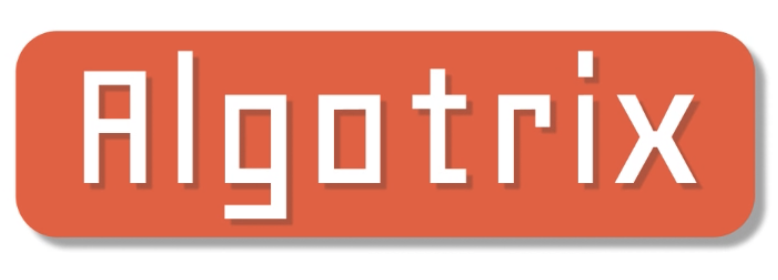
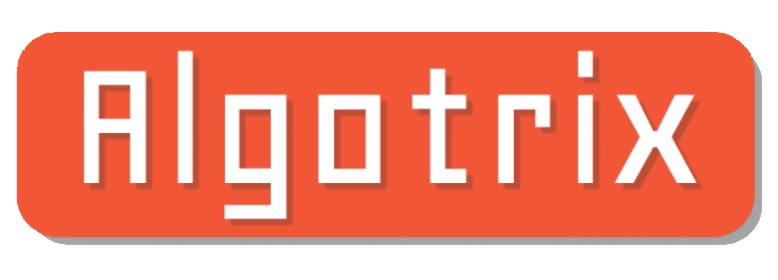
Finish issue-39
+ transparent landing logo

diff --git a/app/imports/ui/pages/Landing.jsx b/app/imports/ui/pages/Landing.jsx
@@ -1,14 +1,146 @@
 import React from 'react';
-import { Header, Grid, Icon, Button, Image } from 'semantic-ui-react';
-import { NavLink } from 'react-router-dom';
-import LandingNavBar from '../components/nvabars/LandingNavBar';
+import { Header, Grid, Icon, Button, Image, Menu, Sticky, Form, Message, Modal } from 'semantic-ui-react';
+import { Meteor } from 'meteor/meteor';
+import { NavLink, Redirect } from 'react-router-dom';
+import { AutoForm, ErrorsField, SubmitField, TextField } from 'uniforms-semantic';
+import { Accounts } from 'meteor/accounts-base';
+import { SimpleSchema2Bridge } from 'uniforms-bridge-simple-schema-2';
+import SimpleSchema from 'simpl-schema';
+import { UserInfos } from '../../api/userinfo/UserInfo';
+
+const signinBridge = new SimpleSchema2Bridge(new SimpleSchema({
+  email: String,
+  password: String,
+}));
+
+const signupBridge = new SimpleSchema2Bridge(new SimpleSchema({
+  email: String,
+  password: String,
+  firstName: String,
+  lastName: String,
+  image: { type: String, optional: true, defaultValue: '' },
+}));
 
 /** A simple static component to render some text for the landing page. */
 class Landing extends React.Component {
+  constructor(props) {
+    super(props);
+    this.state = { error: '', redirectToReferer: false, open: false, dimmer: undefined, signIn: true };
+  }
+
+  signinSubmit = (data, formRef) => {
+    const { email, password } = data;
+    Meteor.loginWithPassword(email, password, (err) => {
+      if (err) {
+        this.setState({ error: err.reason });
+      } else {
+        formRef.reset();
+        this.setState({ error: '', redirectToReferer: true, open: false });
+      }
+    });
+  }
+
+  signupSubmit(data, formRef) {
+    const { email, password, firstName, lastName, image } = data;
+    Accounts.createUser({ email, username: email, password }, (err) => {
+      if (err) {
+        this.setState({ error: err.reason });
+      } else {
+        formRef.reset();
+        UserInfos.define({
+          firstName: firstName, lastName:
+          lastName, owner: email, password: password, userImage: image,
+        });
+        this.setState({ error: '', redirectToReferer: true, open: false });
+      }
+    });
+  }
+
+  signupPage() {
+    let fRef = null;
+
+    return (
+      <>
+        <AutoForm ref={ref => {
+          fRef = ref;
+        }} schema={signupBridge} onSubmit={data => this.signupSubmit(data, fRef)}>
+          <Header as="h1" textAlign="left">Register</Header>
+          <Form.Group widths='equal'>
+            <TextField name='firstName' placeholder='Your first name' grid='equal'/>
+            <TextField name='lastName' placeholder='Your last name' grid='equal'/>
+          </Form.Group>
+          <TextField name='email' placeholder='E-mail address' iconLeft='user'/>
+          <TextField name='password' type='password' placeholder='Password' iconLeft='lock'/>
+          <SubmitField style={{ color: 'white', backgroundColor: '#e74c3c' }} value='Register'/>
+          <ErrorsField/>
+        </AutoForm>
+        {this.state.error === '' ? ('') : (
+          <Message error header="Registration failed" content={this.state.error} />
+        )}
+      </>
+    );
+  }
+
+  signinPage() {
+    let fRef = null;
+
+    return (
+      <>
+        <AutoForm ref={ref => {
+          fRef = ref;
+        }} schema={signinBridge} onSubmit={data => this.signinSubmit(data, fRef)}>
+          <Header as="h1" textAlign="left">Login</Header>
+          <TextField name='email' placeholder='E-mail address' iconLeft='user'/>
+          <TextField name='password' type='password' placeholder='Password' iconLeft='lock'/>
+          <SubmitField style={{ color: 'white', backgroundColor: '#e74c3c' }} value='Login'/>
+          <ErrorsField/>
+        </AutoForm>
+        {this.state.error === '' ? ('') : (
+          <Message error header="Login failed" content={this.state.error} />
+        )}
+      </>
+    );
+  }
+
   render() {
+    const { from } = { from: { pathname: '/home' } };
+    // if correct authentication, redirect to home screen
+    if (this.state.redirectToReferer) {
+      return <Redirect to={from}/>;
+    }
+
+    const pageState = this.state.signIn;
+
     return (
       <div>
-        <LandingNavBar />
+        <Modal
+          onClose={() => this.setState({ open: false })}
+          onOpen={() => this.setState({ open: true })}
+          open={this.state.open}
+          dimmer='blurring'>
+          <Modal.Header>
+            <Button fluid color='orange' onClick={() => this.setState({ signIn: !this.state.signIn })}>
+              {(pageState) ? 'No Account? Register Today' : 'Got an Account? Login Now'}
+            </Button>
+          </Modal.Header>
+          <Modal.Content>
+            {(pageState) ? this.signinPage() : this.signupPage()}
+          </Modal.Content>
+        </Modal>
+
+        <Sticky>
+          <Menu attached="top" inverted color='red' size='large' borderless>
+            <Menu.Item>
+              <Header inverted as='h1'>Algo-Trix</Header>
+            </Menu.Item>
+            <Menu.Item position="right">
+              <Button id="login-dropdown" pointing="top right" onClick={() => this.setState({ open: true })}>
+                Login / Register
+              </Button>
+            </Menu.Item>
+          </Menu>
+        </Sticky>
+
         <div className="landing-header-background" />
         <div className='landing-bg-text'><Image src='images/algotrix.png' centered/><br />
           <h2> Your friend to pass Algorithm (Gate Way Keeper)
@@ -43,12 +175,16 @@ class Landing extends React.Component {
               <Grid.Column>
                 <Header as='h2' inverted textAlign='center'> NEW TO Algo-Trix</Header>
                 <p>Create an Account.</p>
-                <NavLink exact to="/signup"><Icon name='user plus' size='massive' /></NavLink>
+                <NavLink exact to='/'>
+                  <Icon name='user plus' size='massive' onClick={() => this.setState({ open: true, signIn: false })}/>
+                </NavLink>
               </Grid.Column>
               <Grid.Column>
                 <Header as='h2' inverted textAlign='center'> RETURNING TO Algo-Trix</Header>
                 <p>Sign Back In.</p>
-                <NavLink exact to="/signin"><Icon name='user' size='massive' /></NavLink>
+                <NavLink exact to='/'>
+                  <Icon name='user' size='massive' onClick={() => this.setState({ open: true, signIn: true })}/>
+                </NavLink>
               </Grid.Column>
             </Grid>
             <br />
